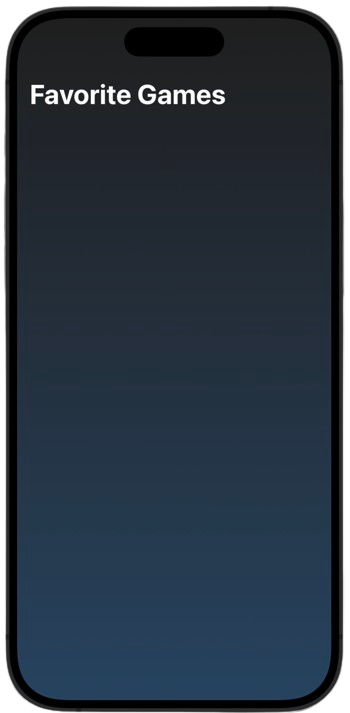
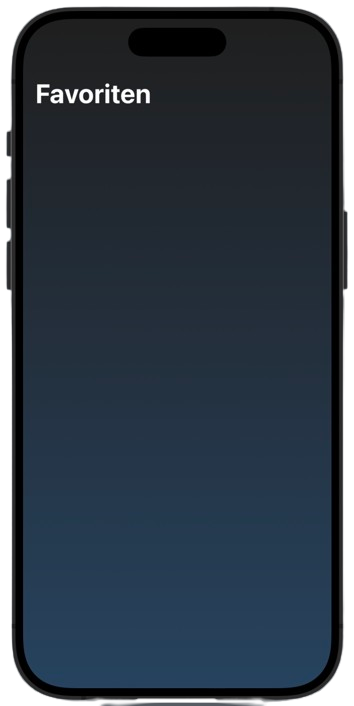
Refectors und Imange für readme

Changed region(s): [[0.0, 0.0, 1.0, 1.0], [0.4857, 0.0, 0.6571, 0.0312]]

diff --git a/AnyGame/AnyGame/CommunityView/CommunityView.swift b/AnyGame/AnyGame/CommunityView/CommunityView.swift
@@ -98,7 +98,7 @@ struct CommunityView: View {
                                         }) {
                                             Image(systemName: "message")
                                                 .foregroundColor(.blue)
-                                            Text("Antworten")
+                                            Text("Alle Kommentare Ansehen")
                                                 .foregroundColor(.blue)
                                         }
                                         .padding(.top, 5)

diff --git a/AnyGame/AnyGame/CommunityView/AnswerSheetView.swift b/AnyGame/AnyGame/CommunityView/AnswerSheetView.swift
@@ -63,7 +63,7 @@ struct AnswerSheet: View {
                 .background(Color.clear)
                 
                 HStack {
-                    TextField("Antwort eingeben...", text: $answerText)
+                    TextField("Kommentieren...", text: $answerText)
                         .textFieldStyle(RoundedBorderTextFieldStyle())
                         .foregroundColor(.black)
                         .background(Color.black.opacity(0.2))

diff --git a/AnyGame/AnyGame/FavoriteGameView/FavoriteGameView.swift b/AnyGame/AnyGame/FavoriteGameView/FavoriteGameView.swift
@@ -29,7 +29,7 @@ struct FavoriteGameView: View {
                 VStack {
                     // HStack mit dem Titel
                     HStack {
-                        Text("Favorite Games")
+                        Text("Favoriten")
                             .font(.largeTitle)
                             .fontWeight(.bold)
                             .foregroundColor(.white)
